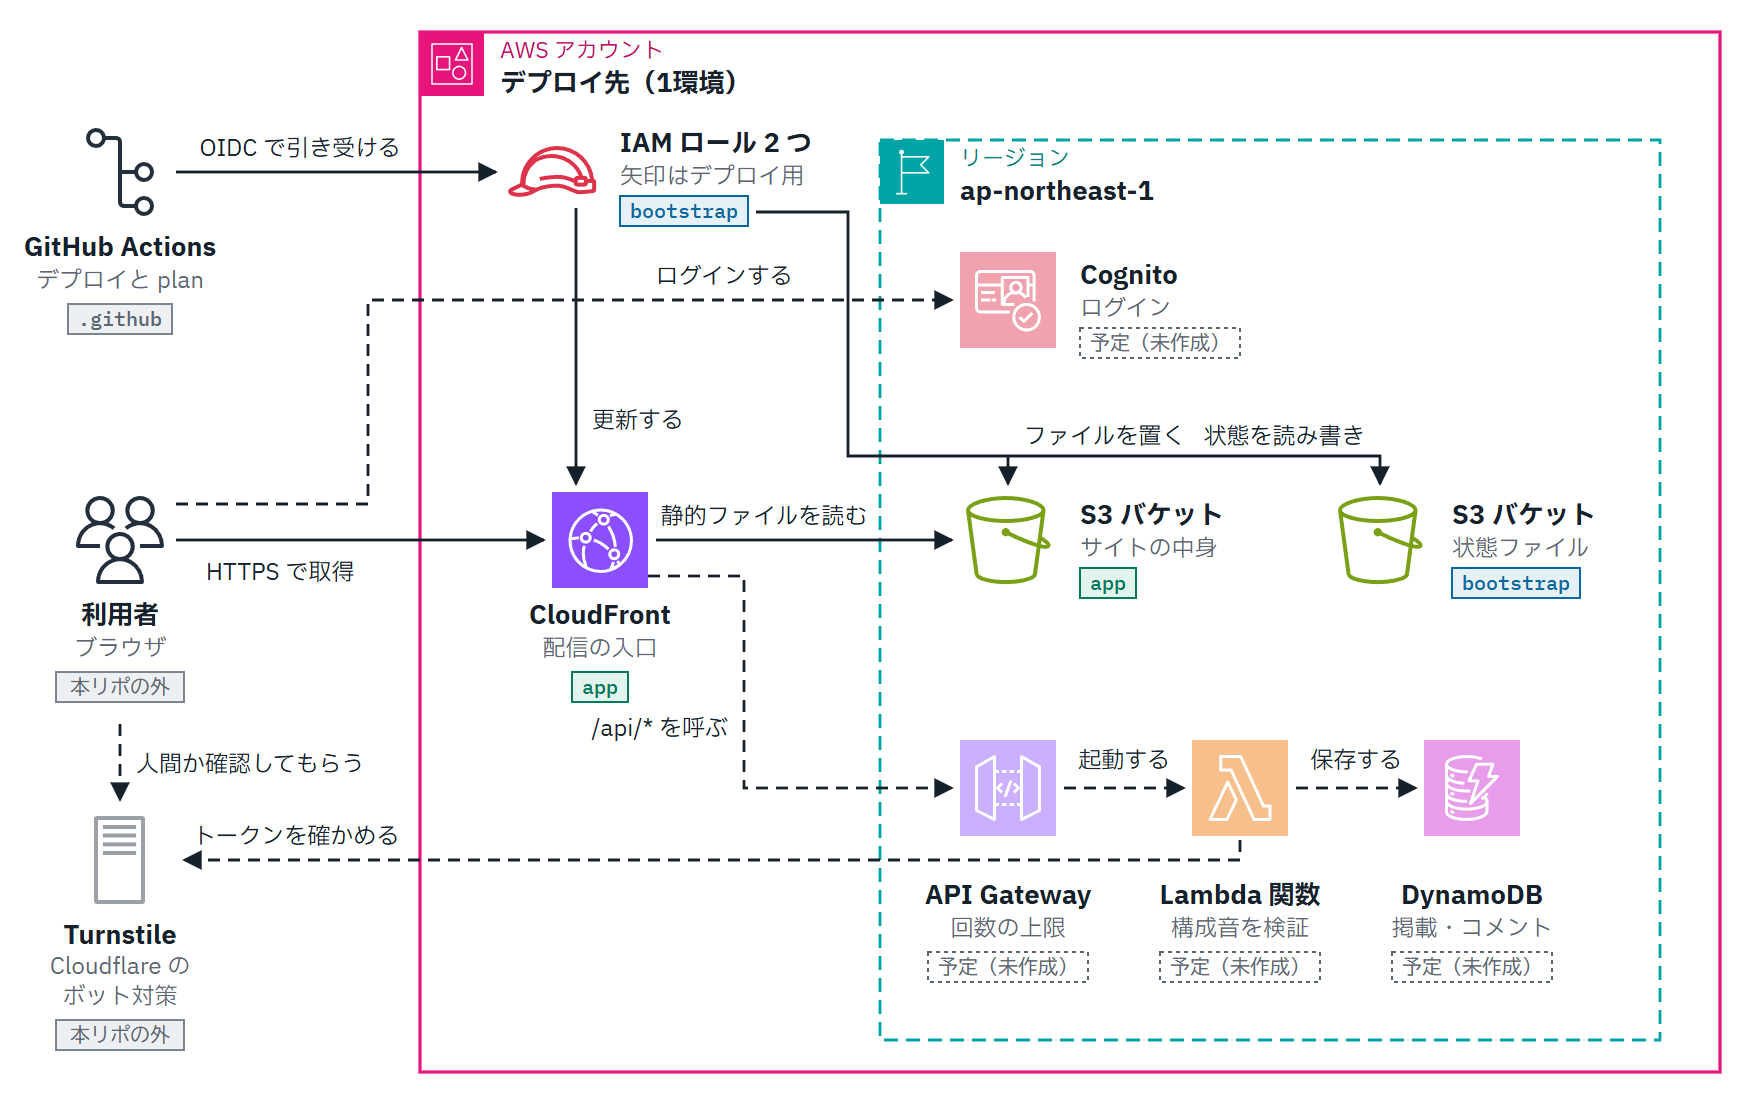
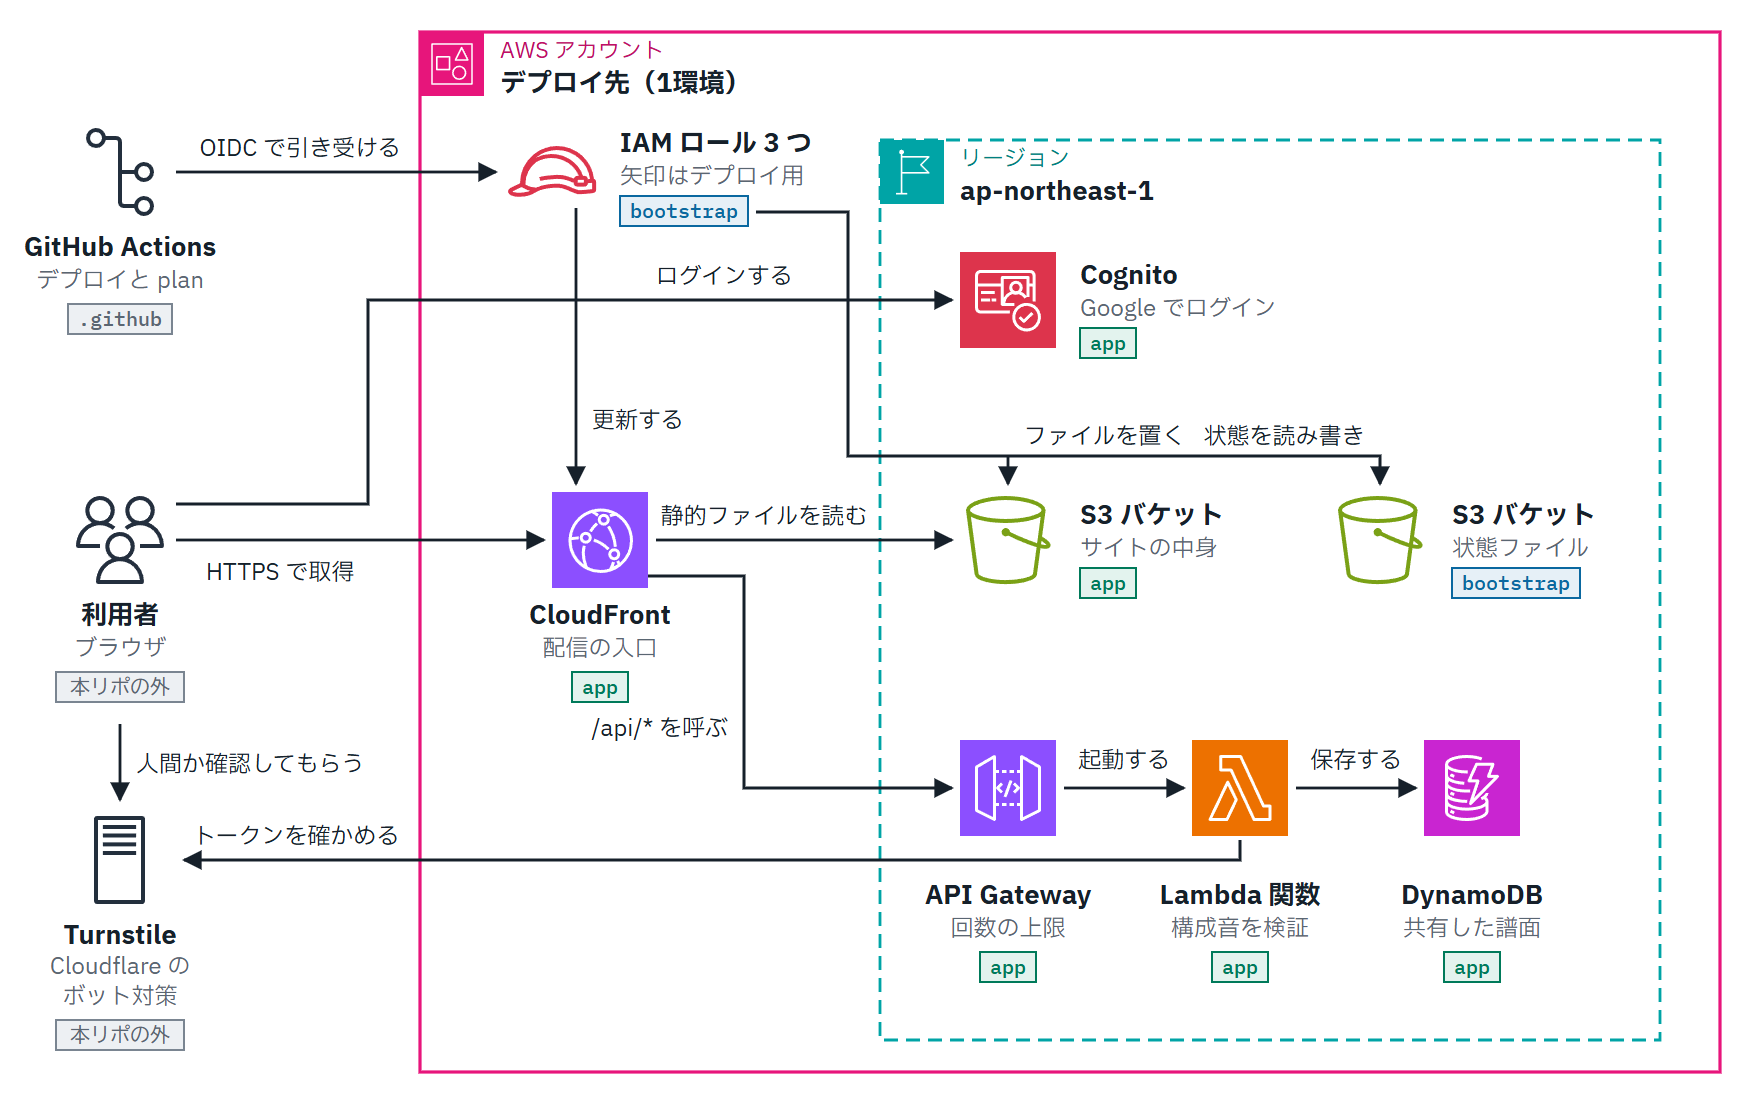
docs: README の構成図と説明を、譜面の共有を反映した実際の構成に直す
M4 の共有の部品（Cognito・API Gateway・Lambda・DynamoDB）を実環境に初めて反映させる前に、README の全体構成図（ADR 0009 の例外の 1 組）と alt・モードの一覧の 3・状態の一文を、実際の構成に合わせた。モード 3 は「掲載とコメント」から「URL を知る人だけが見られる共有」に変わっている（docs/adr/0035-share-by-unguessable-url-with-google-login.md）。図は予定の部品をなくし、Cognito・API Gateway・Lambda・DynamoDB を infra/app の資源にし、IAM ロールを 3 つ（Lambda の実行ロールを含む）にした。描かれた文字は目で確かめた。

infra/bootstrap/README.md には、fork する人向けに、Google の OAuth クライアントのリダイレクト URI、Turnstile のホスト名、同意画面が「テスト中」のあいだはテストユーザーしかログインできないこと（本番にするにはプライバシーポリシーの URL が要る）を足した。この環境も当面は「テスト中」のまま運用し、本番にするのは別の Issue にする（本人の判断）。

このコミットの push で deploy.yml が動き、共有の部品が作られる（Issue #82 の手順）。

関連: #82

diff --git a/README.md b/README.md
@@ -4,18 +4,18 @@
 
 <picture>
   <source media="(prefers-color-scheme: dark)" srcset="docs/images/architecture-dark.png">
-  <img src="docs/images/architecture-light.png" alt="構成図。利用者のブラウザは CloudFront から S3 の静的ファイルを取得する（モード 1・2）。GitHub Actions は OIDC で IAM ロールを引き受ける。デプロイ用のロールが CloudFront とサイト用の S3 を更新し、状態ファイルを読み書きする。モード 3 では、Cognito でログインし、API Gateway と Lambda を通して DynamoDB に掲載とコメントを保存する（予定）。人間かどうかの確認は Turnstile に任せる（予定）。">
+  <img src="docs/images/architecture-light.png" alt="構成図。利用者のブラウザは CloudFront から S3 の静的ファイルを取得する（モード 1・2）。GitHub Actions は OIDC で IAM ロールを引き受ける。デプロイ用のロールが CloudFront とサイト用の S3 を更新し、状態ファイルを読み書きする。モード 3 の共有では、Google のアカウントで Cognito にログインし、CloudFront の /api/* から API Gateway と Lambda を通して DynamoDB に譜面を保存する。人間かどうかの確認は Turnstile に任せ、Lambda がそのトークンを確かめる。">
 </picture>
 
-2026-11-07 時点の構成図で、モード 3 の部品は予定（アイコンは [AWS Architecture Icons](https://aws.amazon.com/architecture/icons/)）。`bootstrap`・`app` のバッジは作成済みのもので、実装が進むと食い違う。矢印の更新を行うのはデプロイ用のロールで、PR 用のロールは読み取りとロックだけ。
+2026-11-08 時点の構成図（アイコンは [AWS Architecture Icons](https://aws.amazon.com/architecture/icons/)）。`bootstrap`・`app` のバッジは、その資源を作るルートモジュールで、実装が進むと食い違う。矢印の更新を行うのはデプロイ用のロールで、PR 用のロールは読み取りとロックだけ。
 
 次の 3 つのモードを、番号順に作る（[docs/adr/0006](docs/adr/0006-product-scope-and-stages.md)）。
 
 1. 自由にコード進行を入れて、出力を得る（ログイン不要）。
 2. 出力を、各コードの押さえ方の候補から選び直して微調整する。
-3. 出力を恒久的に掲載し、コメントを残せる（書き込みはログイン必須）。
+3. 出力を、URL を知る人だけが見られる形で共有する（共有するには Google でのログインが要る。[docs/adr/0035](docs/adr/0035-share-by-unguessable-url-with-google-login.md)）。
 
-状態: モード 1 を AWS で配信している。main へのマージで自動的にデプロイされる。
+状態: モード 1〜3 を AWS で配信している。main へのマージで自動的にデプロイされる。
 
 手元で動かす（Node.js 24 系と pnpm が要る。版は `package.json` の `packageManager`）:
 

diff --git a/infra/bootstrap/README.md b/infra/bootstrap/README.md
@@ -53,6 +53,8 @@ terraform -chdir=infra/bootstrap apply -input=false -no-color -state=<S> tfplan
 
    Turnstile の秘密鍵は Secrets に入れない。SSM のパラメータ `/<project_name>/<environment>/turnstile-secret`（既定は `/shirabe/prd/turnstile-secret`）に、手で SecureString として作る。
 
+   Google の OAuth クライアントの承認済みのリダイレクト URI は `https://<COGNITO_DOMAIN_PREFIX>.auth.<region>.amazoncognito.com/oauth2/idpresponse`、Turnstile のウィジェットのホスト名は公開 URL のドメイン。Google の同意画面が「テスト中」のあいだは、テストユーザーに足したアカウントしかログインできない（本番にするにはプライバシーポリシーの URL が要る）。共有を開く側はログインしないので影響しない。
+
 `apply` はアカウントに実際にバケットとロールと予算を作るので、本人が承認してから行う。
 
 適用の後、Budgets のコンソールの予算の詳細にある `Email verification` で、宛先の状態が `Verified` であることを確かめる。まだなら、検証メール（期限 12 時間）のリンクを開いてこのアカウントにサインインする。メールが無いときや期限が切れたときは、同じ欄から送り直す。検証が済むまで通知は届かない。
